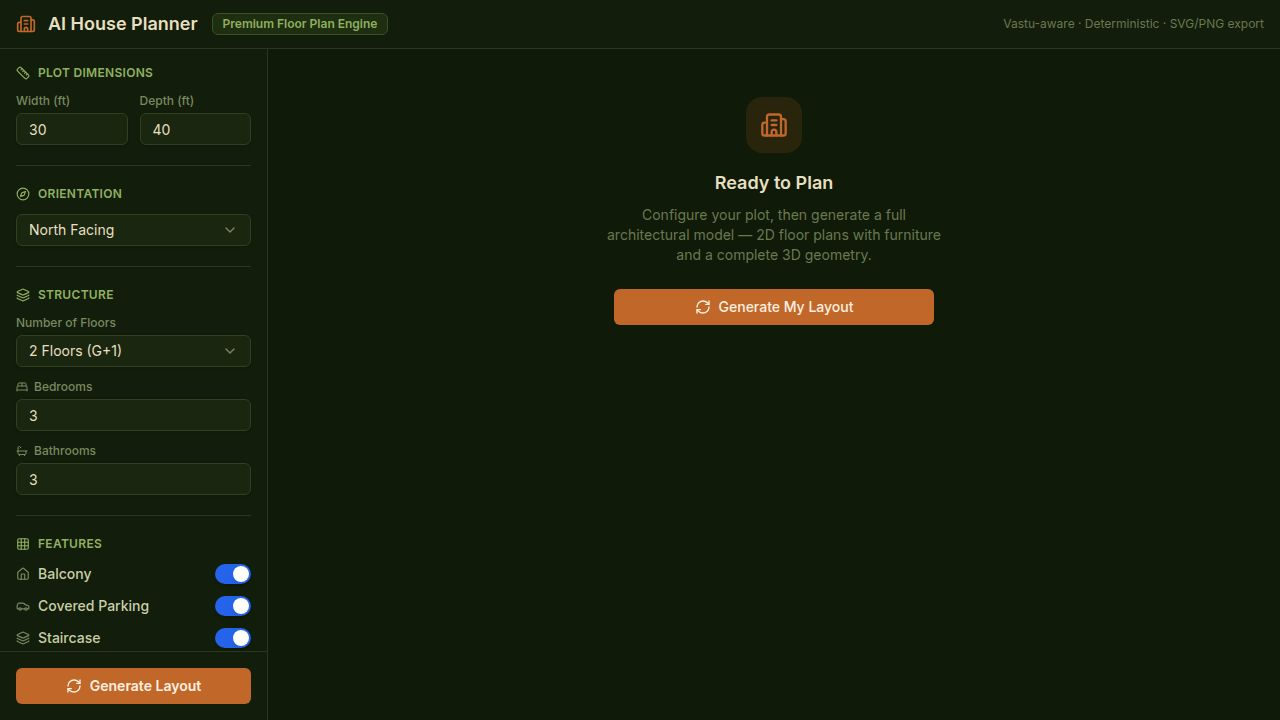
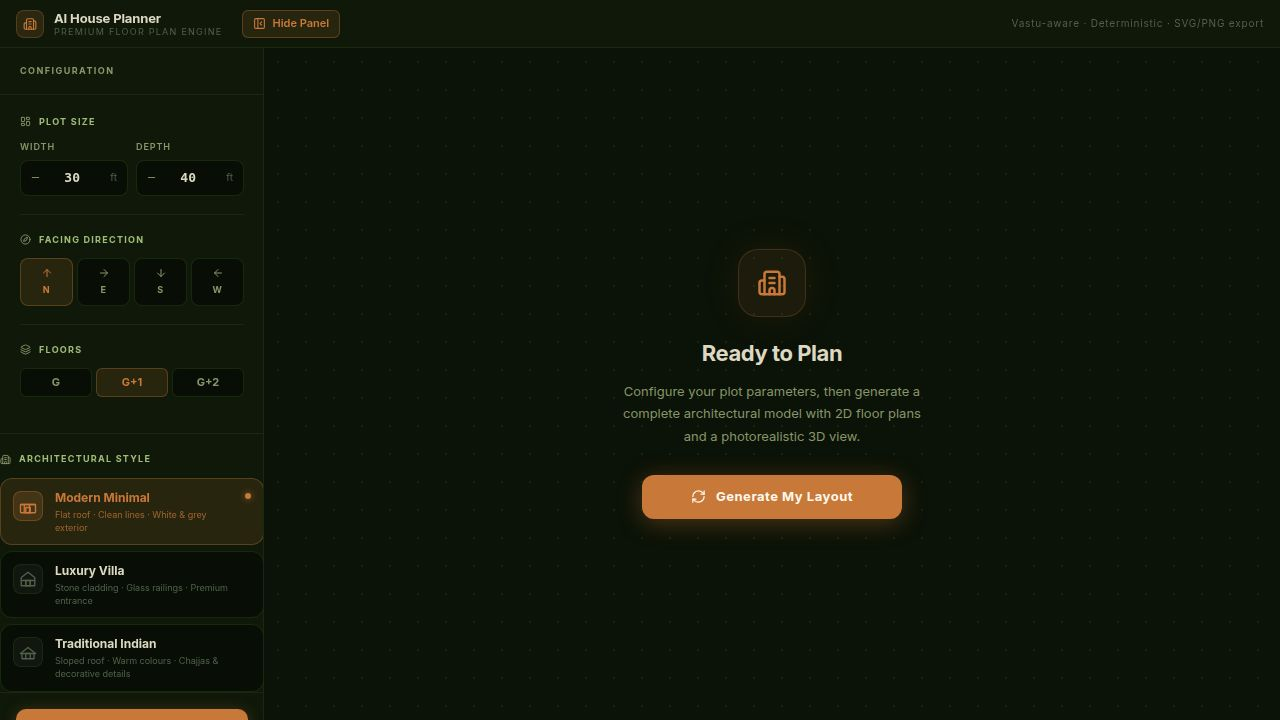
Improve roof appearance and limit building floors to three
Update the sloped roof positioning logic and restrict floor selection to G, G+1, and G+2. Add a "Reconfigure" button to reset the generation process.

Replit-Commit-Author: Agent
Replit-Commit-Session-Id: 7aed6124-6b80-4790-b081-eccf6b27f107
Replit-Commit-Checkpoint-Type: full_checkpoint
Replit-Commit-Event-Id: ca326b24-cf71-4079-8718-1ab677bfcdb5
Replit-Commit-Screenshot-Url: https://storage.googleapis.com/screenshot-production-us-central1/36b6bd28-25ea-425d-a18c-9cde0be7d609/7aed6124-6b80-4790-b081-eccf6b27f107/HceS0gx
Replit-Helium-Checkpoint-Created: true

diff --git a/artifacts/house-planner/src/components/ThreeViewer.tsx b/artifacts/house-planner/src/components/ThreeViewer.tsx
@@ -803,7 +803,7 @@ function InstancedFloor({
 }
 
 function FloorGroups({
-  scene, preset, isoFloor, wireframe, showFurniture, textures, matOverrides,
+  scene, preset, isoFloor, wireframe, showFurniture, textures, matOverrides, slopedRoofRef,
 }: {
   scene: SceneData;
   preset: ViewPreset;
@@ -812,6 +812,7 @@ function FloorGroups({
   showFurniture: boolean;
   textures: Textures;
   matOverrides: Partial<Record<MeshRole, StyleMatOverride>>;
+  slopedRoofRef?: React.RefObject<THREE.Group | null>;
 }) {
   const byFloor = useMemo<Map<number, BoxSpec[]>>(() => {
     const m = new Map<number, BoxSpec[]>();
@@ -876,6 +877,9 @@ function FloorGroups({
 
     for (const [f, grp] of Object.entries(groupRefs.current)) {
       if (grp) grp.position.y = Number(f) * ce;
+    }
+    if (slopedRoofRef?.current) {
+      slopedRoofRef.current.position.y = scene.floors * ce;
     }
 
     const gap = Math.max(0, ce - FLOOR_TO_FLOOR);
@@ -1180,6 +1184,7 @@ function BuildingScene({
   const shadowMapSize = isMobile ? 1024 : 2048;
   const aoSamples     = isMobile ? 4 : 12;
   const aoRadius      = isMobile ? 0.9 : 1.6;
+  const slopedRoofRef = useRef<THREE.Group>(null);
 
   return (
     <>
@@ -1197,18 +1202,21 @@ function BuildingScene({
         preset={preset}
         isoFloor={isoFloor}
         wireframe={wireframe}
+        slopedRoofRef={slopedRoofRef}
         showFurniture={showFurniture}
         textures={textures}
         matOverrides={style.matOverrides}
       />
 
-      {/* Sloped roof overlay for Traditional Indian style */}
+      {/* Sloped roof overlay for Traditional Indian style — wrapped in animated group */}
       {style.roofType === "sloped" && (
-        <SlopedRoofOverlay
-          scene={scene}
-          tileColor={style.roofTileColor}
-          floors={scene.floors}
-        />
+        <group ref={slopedRoofRef}>
+          <SlopedRoofOverlay
+            scene={scene}
+            tileColor={style.roofTileColor}
+            floors={scene.floors}
+          />
+        </group>
       )}
 
       {showFurniture && (

diff --git a/artifacts/house-planner/src/pages/HousePlannerPage.tsx b/artifacts/house-planner/src/pages/HousePlannerPage.tsx
@@ -212,7 +212,7 @@ function FloorPills({
 }: { value: number; onChange: (v: number) => void }) {
   return (
     <div className="flex gap-1">
-      {[1, 2, 3, 4, 5].map(n => {
+      {[1, 2, 3].map(n => {
         const active = value === n;
         return (
           <button
@@ -601,6 +601,22 @@ export default function HousePlannerPage() {
                   ))}
                 </>
               )}
+
+              {/* Separator + Reconfigure button */}
+              <div style={{ width: 1, height: 20, background: T.border, margin: "0 4px" }} />
+              <button
+                onClick={() => { setHasGenerated(false); setResult(null); setErrors([]); }}
+                className="flex items-center gap-1.5 transition-all"
+                style={{
+                  height: 30, paddingInline: 12, borderRadius: 10,
+                  background: "transparent",
+                  border: `1px solid ${T.border}`,
+                  color: T.textSec, fontSize: 11, fontWeight: 600,
+                }}
+              >
+                <RefreshCw size={11} />
+                Reconfigure
+              </button>
             </div>
           )}
 